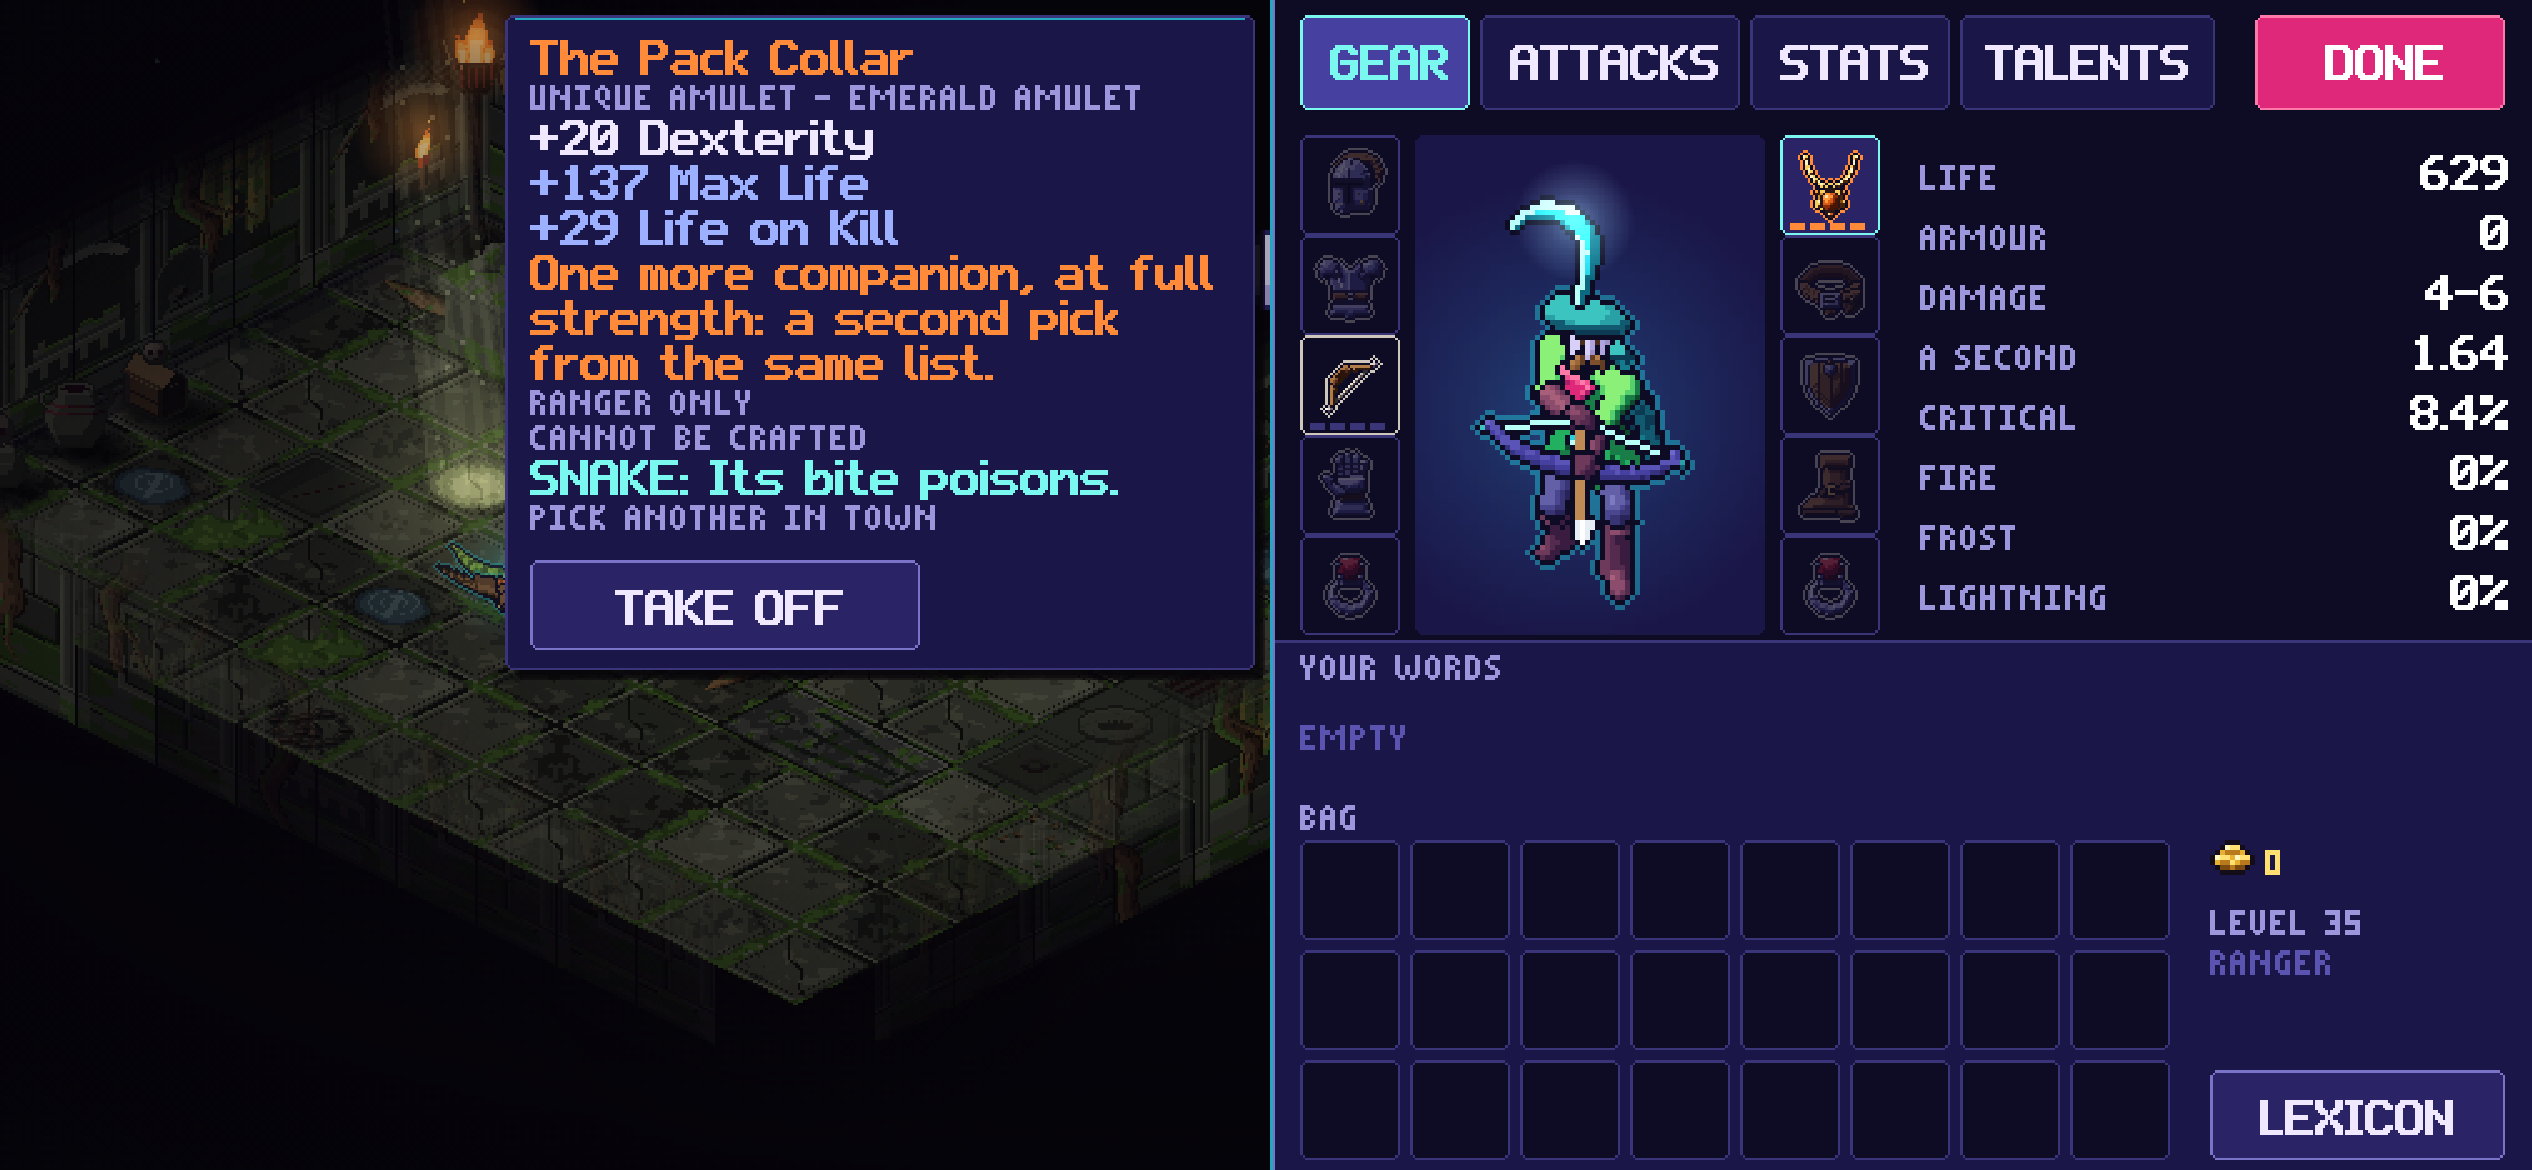
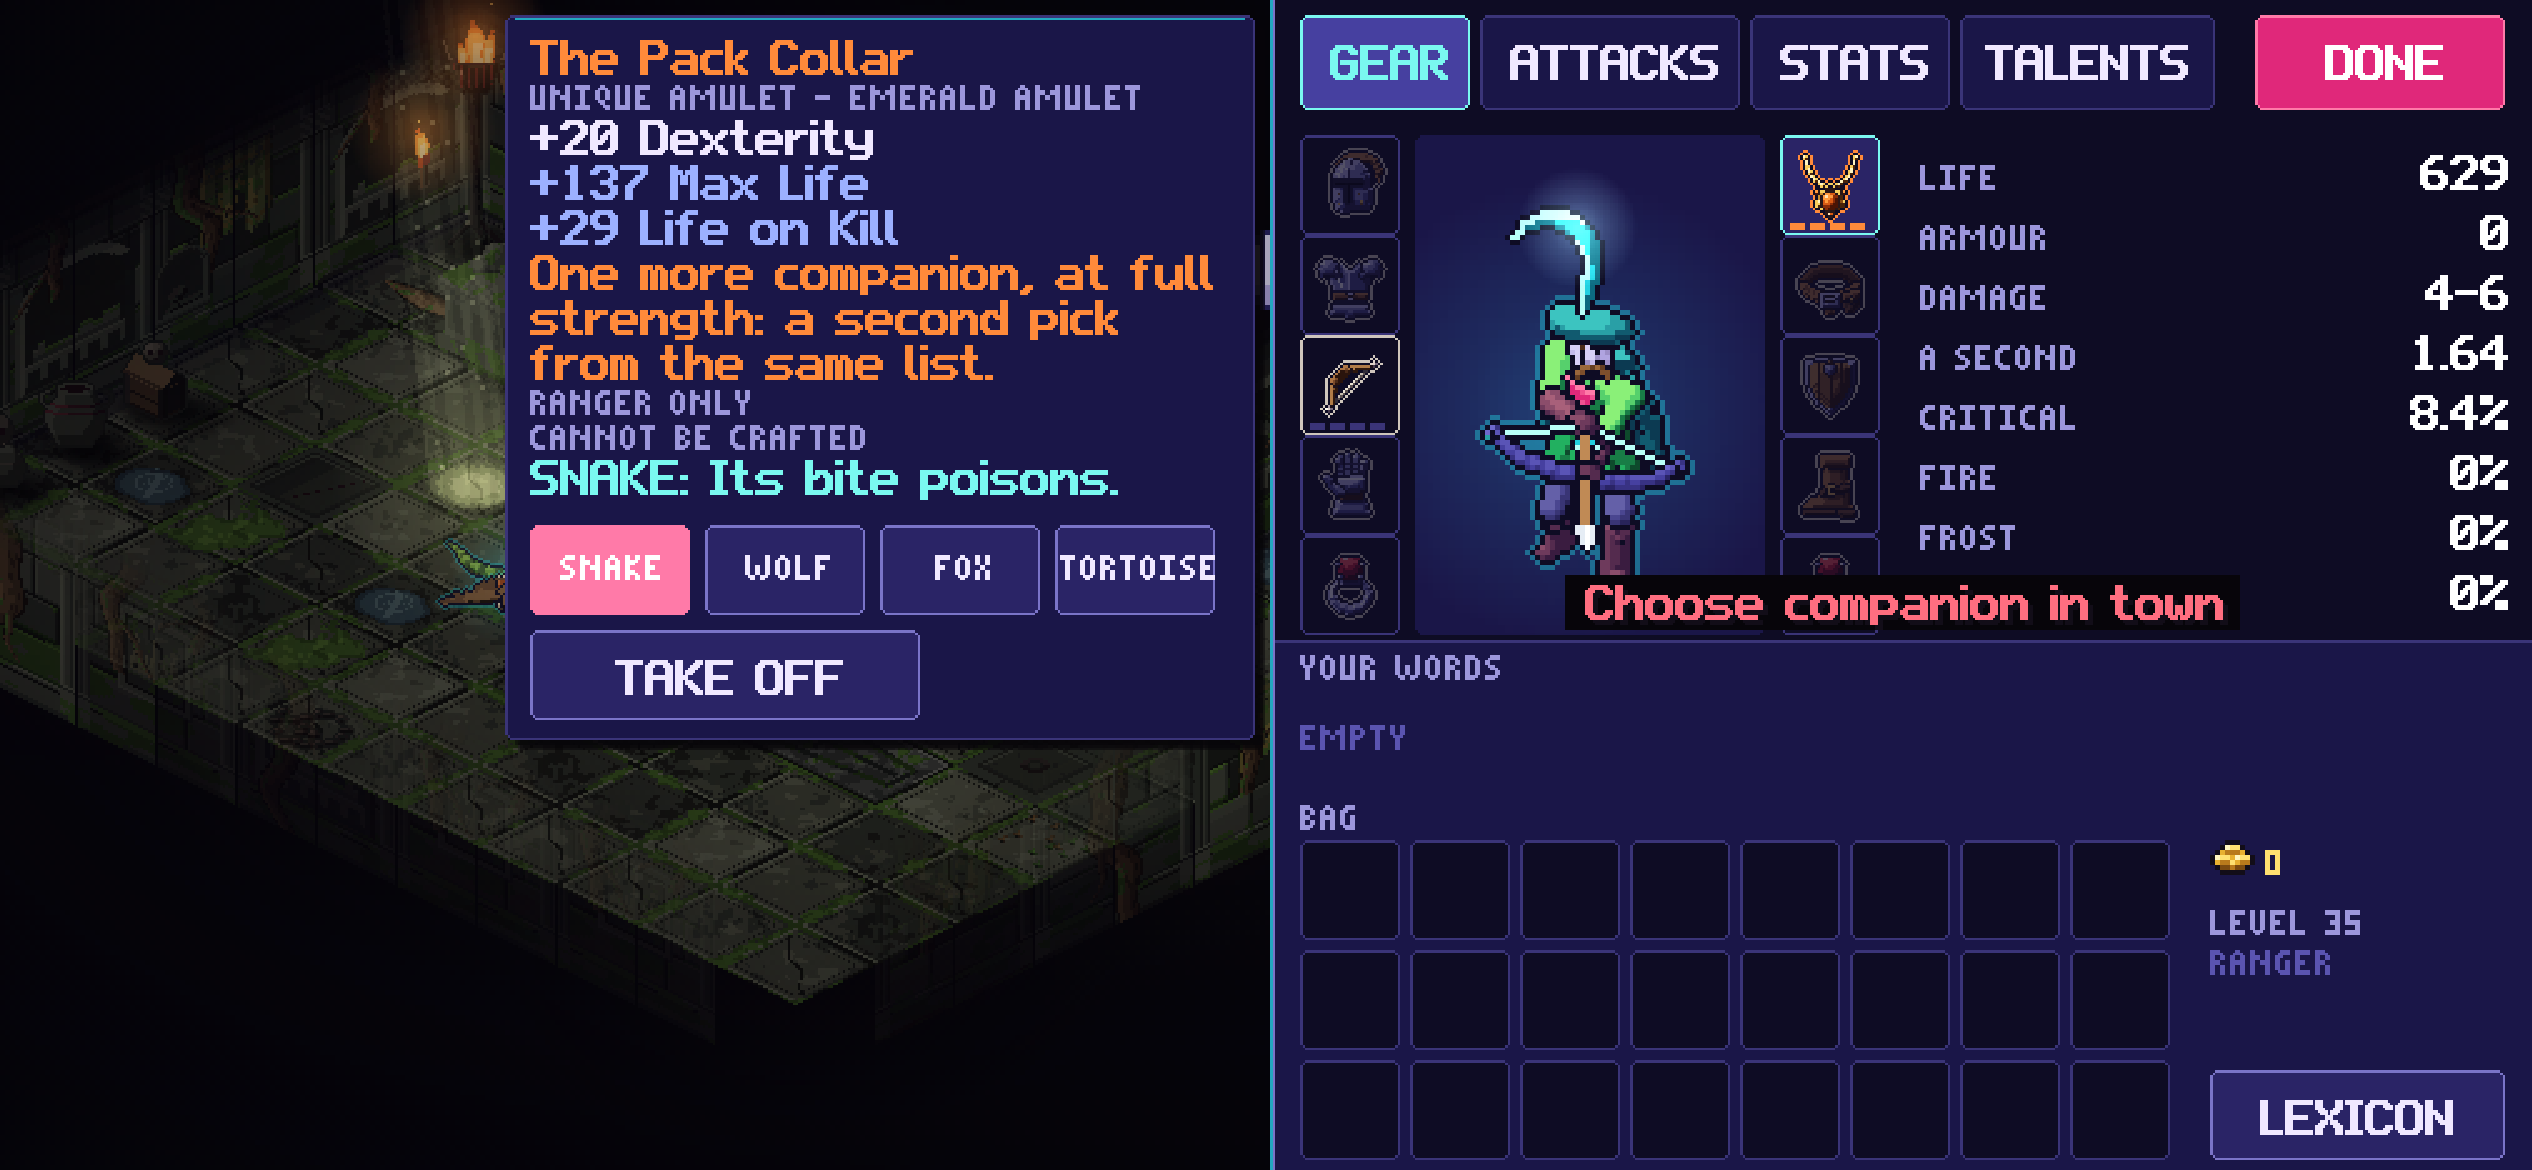
The Pack Collar's card: nothing said of where to pick; out of town a tap says “Choose companion in town” (his words, 12 Nov 2026, 12:41)
Claude-Session: https://claude.ai/code/session_01JYSqoWYC1u9C3VDVetztYx

diff --git a/src/ui/inventory.ts b/src/ui/inventory.ts
@@ -153,7 +153,7 @@ export interface InvUi {
    * buttons by their labels. (A press arrives between frames, at what was on the screen: the
    * buttons are pressed where they were drawn.)
    */
-  /** (THE PACK COLLAR: `pets`, the row of its companions to pick from on its card, in town) */
+  /** (THE PACK COLLAR: `pets`, the row of its companions to pick from on its card) */
   card: { r: Rect; buttons: { id: string; r: Rect }[]; pets?: { r: Rect; kind: CompanionKind }[] } | null;
 }
 
@@ -846,8 +846,13 @@ export function drawInventory(ui: Ui, game: Game, art: Art, st: InvUi, t: number
   // ---- presses, top-most first ------------------------------------------------------------------
   let close = false;
   for (const b of selButtons) if (cardPress(b.label)) b.act();
-  // (THE PACK COLLAR: in town, its companion picked on its card)
-  for (const p of cardWas?.pets ?? []) if (ui.pressIn(p.r.x, p.r.y, p.r.w, p.r.h)) game.pickCollarCompanion(p.kind);
+  // (THE PACK COLLAR: its companion picked on its card, in town; out of town a tap says so. His words, 12 Nov 2026, 12:41: “I’d
+  // rather it not say anything until you tap on it or something then a message says “Choose companion in town””)
+  for (const p of cardWas?.pets ?? []) {
+    if (!ui.pressIn(p.r.x, p.r.y, p.r.w, p.r.h)) continue;
+    if (game.level.town) game.pickCollarCompanion(p.kind);
+    else say('Choose companion in town');
+  }
   // (a piece of the service's own, read on the same card: its buttons are the service's)
   const lookWas = side && side.look ? side.look() : null;
   if (lookWas) for (const b of lookWas.buttons) if (!b.disabled && cardPress(b.label)) say(b.act());
@@ -1708,9 +1713,10 @@ export function drawInventory(ui: Ui, game: Game, art: Art, st: InvUi, t: number
       return iy;
     };
 
-    // (THE PACK COLLAR, the Ranger's own, in town: over its buttons a row of the companions it may bring, the one it brings lit.
-    // His pick, 12 Nov 2026, by pop-up: “Pick it on the collar”; and “No, one of the other two (Recommended)”: never one at her side)
-    const petKinds: CompanionKind[] = mine && game.level.town && uniqueOf(mine.item)?.id === 'packcollar' ? game.collarChoices() : [];
+    // (THE PACK COLLAR, the Ranger's own: over its buttons a row of the companions it may bring, the one it brings lit; picked
+    // in town, and out of town a tap says so. His pick, 12 Nov 2026, by pop-up: “Pick it on the collar”; and “No, one of the
+    // other two (Recommended)”: never one at her side)
+    const petKinds: CompanionKind[] = mine && uniqueOf(mine.item)?.id === 'packcollar' ? game.collarChoices() : [];
     const petRow = petKinds.length ? bh + 3 : 0;
     const foot = (buttons.length ? bh + 5 : 0) + (petRow && !buttons.length ? petRow + 2 : petRow);
     const tall = content(0, 0, inner, true, Infinity);

diff --git a/src/ui/panels.ts b/src/ui/panels.ts
@@ -114,13 +114,12 @@ export function itemCard(game: Game, it: Item, touch = false): Line[] {
   const unique = uniqueOf(it);
   if (unique) {
     for (const l of uniqueLines(unique, h.cls)) lines.push({ text: l.text, color: l.kind === 'does' ? RARITY_COLOR[3] : l.kind === 'note' ? THEME.dim : THEME.bad, small: l.kind === 'note' || l.kind === 'bad' });
-    // (THE PACK COLLAR, the Ranger's: the companion it brings and what it does, as a companion talent's card says it; in town
-    // she picks another on this card, ui/inventory.ts. His pick, 12 Nov 2026: “Pick it on the collar”)
+    // (THE PACK COLLAR, the Ranger's: the companion it brings and what it does, as a companion talent's card says it; she picks
+    // another on this card, in town, ui/inventory.ts. His pick, 12 Nov 2026: “Pick it on the collar”. Nothing said of where it
+    // is picked: his words, 12:41, “I’d rather it not say anything until you tap on it or something then a message says
+    // “Choose companion in town” or something like that”)
     const pet = unique.id === 'packcollar' ? game.collarCompanion() : null;
-    if (pet) {
-      lines.push({ text: `${COMPANION_INFO[pet].name.toUpperCase()}: ${COMPANION_INFO[pet].short}`, color: THEME.accent });
-      if (!game.level.town) lines.push({ text: 'PICK ANOTHER IN TOWN', color: THEME.dim, small: true });
-    }
+    if (pet) lines.push({ text: `${COMPANION_INFO[pet].name.toUpperCase()}: ${COMPANION_INFO[pet].short}`, color: THEME.accent });
   } else {
     // how many more words it will take (the owner: "All items have room for 4 mods. White starts with 0, blue 1-2, yellow 3-4")
     const room = itemRoom(it);

diff --git a/docs/mockups/pack_collar/README.md b/docs/mockups/pack_collar/README.md
@@ -22,10 +22,14 @@ Behind UNIQUES (off): nothing he sees in the game changes.
 - `game/game.ts`: `petsWanted` takes the collar's from `collarPick`; `collarChoices()`, `collarCompanion()`,
   `pickCollarCompanion(kind)` (town only). Her own pick changed to the collar's: the collar's goes back to the next after
   hers (never twins). The collar's keeps the third place, behind her, as built.
-- `ui/panels.ts`: the collar's card says what it brings, in the companions' own words (as a companion talent's card does);
-  out of town, PICK ANOTHER IN TOWN.
-- `ui/inventory.ts`: on the collar's card, in town, worn or in the bag, a row of the companions it may bring above its
-  buttons, the one it brings lit; a tap picks (marks `collar:<kind>`). One letter size for the whole row.
+- `ui/panels.ts`: the collar's card says what it brings, in the companions' own words (as a companion talent's card does),
+  and nothing of where it is picked.
+- `ui/inventory.ts`: on the collar's card, worn or in the bag, a row of the companions it may bring above its buttons, the
+  one it brings lit (marks `collar:<kind>`). In town a tap picks; out of town a tap picks nothing and the inventory's note
+  says “Choose companion in town”. One letter size for the whole row.
+- HIS WORDS, 12 Nov, 12:41, told the card said PICK ANOTHER IN TOWN out of town: “I’d rather it not say anything until you
+  tap on it or something then a message says “Choose companion in town” or something like that”. Read as: no line about
+  it on the card; the row shown out of town too; a tap there gives that message. Picture 5.
 
 ## Checked
 
